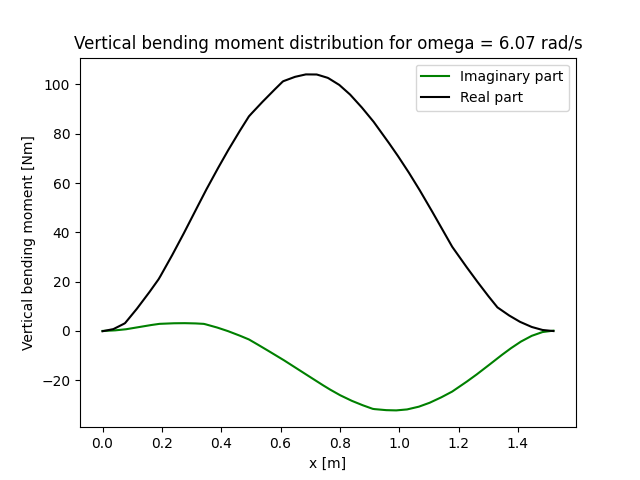
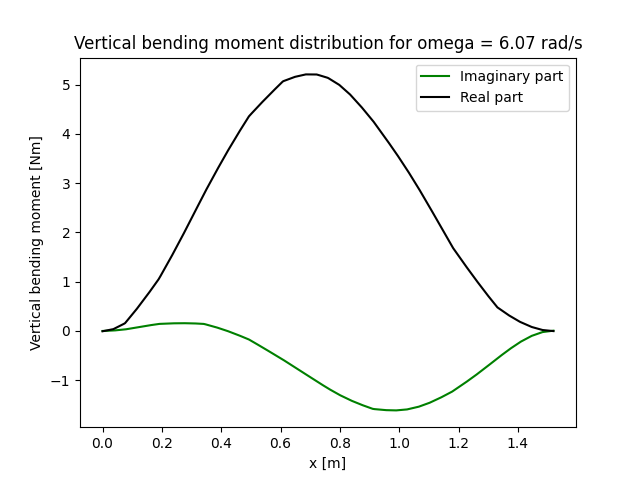
Minor correction in plot generation.

diff --git a/containerShipModelModalSolution.py b/containerShipModelModalSolution.py
@@ -209,7 +209,7 @@ lL = [2.0, 1.3, 1.2, 1.1, 1.0, 0.9, 0.8, 0.6]
 Ll = [1/length for length in lL]
 Ll_full = MARS_responses['L/lambda']
 
-midshipsBendingMomentCoefsExperimental = [[S2M[0] * strain ** 2 / (rho * g * L ** 2 * B) for strain in Strain_Run] for Strain_Run in Strain2]
+midshipsBendingMomentCoefsExperimental = [[S2M[2] * strain ** 2 / (rho * g * L ** 2 * B) for strain in Strain_Run] for Strain_Run in Strain2]
 midshipsBendingMomentCoefs2DNumerical = [moment / (rho * g * L ** 2 * B) for moment in MARS_responses['BM 1/2']]
 
 if not os.path.exists('solutions/%dmodes'%numberModes):
